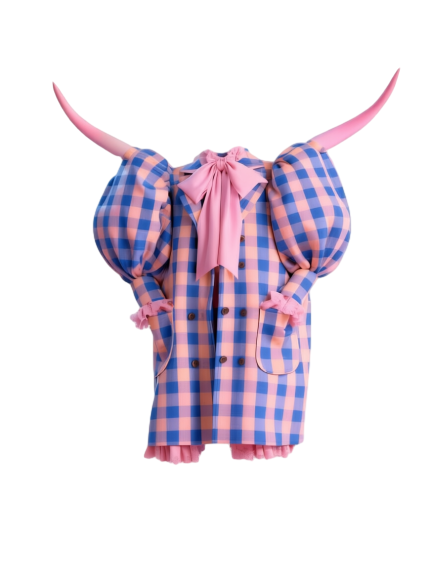
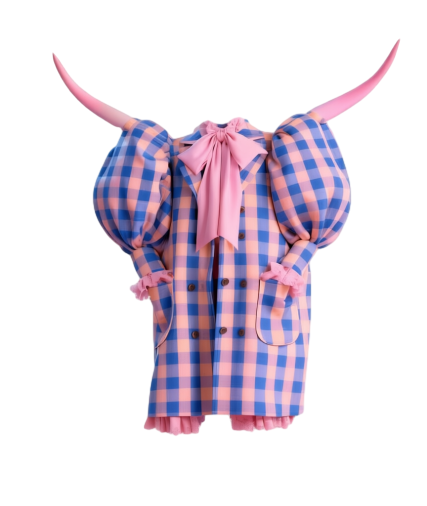
fix: remove emoji stickers from clothing cards

Changed region(s): [[0.2131, 0.3854, 0.822, 0.8597], [0.1218, 0.0593, 0.9438, 0.3557]]

diff --git a/demo.html b/demo.html
@@ -1589,7 +1589,7 @@ function renderMasonry() {
   var m = document.getElementById("clothingMasonry");
   m.innerHTML = "";
   var items = CLOTHING_DATA[_currentTab] || [];
-  var EMOJIS = ["\uD83D\uDE06","\uD83D\uDE0E","\uD83E\uDD29","\uD83E\uDD70","\uD83D\uDE1C","\uD83E\uDD14","\uD83D\uDE0D","\uD83E\uDD23","\uD83E\uDD73","\uD83D\uDE0F","\uD83D\uDE0B","\uD83E\uDD17"];
+
   items.forEach(function(item, i) {
     var card = document.createElement("div");
     card.className = "clothing-card";
@@ -1610,11 +1610,7 @@ function renderMasonry() {
       priceHtml = '<span class="cc-price-old">\u00A5' + oldP + '</span>' + priceHtml;
     }
 
-    var emo = EMOJIS[Math.floor(Math.random() * EMOJIS.length)];
-    var stickerHtml = '<div class="cc-emoji-sticker" style="right:8px;top:8px;">' +
-      emo + '<div class="emoji-bubble">' + item.comment + '</div></div>';
-
-    card.innerHTML = imgBlock + stickerHtml +
+    card.innerHTML = imgBlock +
       '<div class="cc-info">' +
         '<div class="cc-name">' + item.name + '</div>' +
         '<div class="cc-stars">' + stars + '</div>' +
